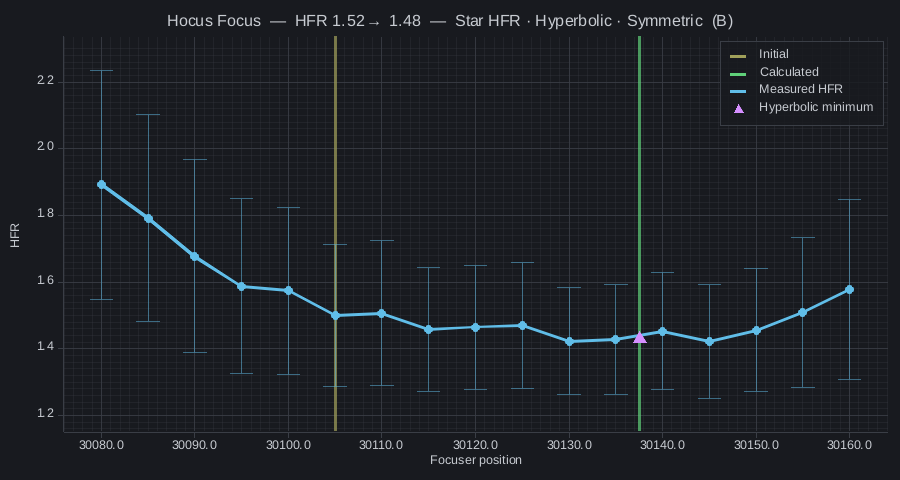
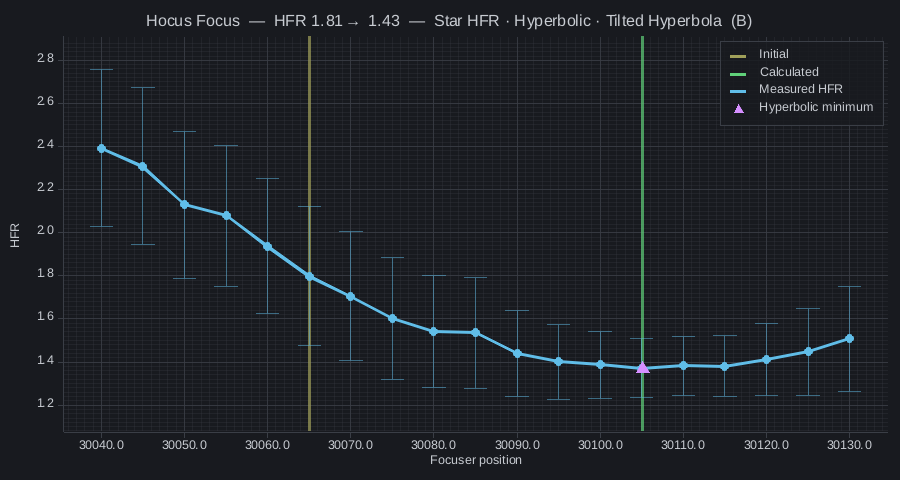
Use updated Tilted Hyperbola autofocus examples

diff --git a/index.html b/index.html
@@ -61,13 +61,13 @@
       <div class="grid two focus-examples">
         <figure>
           <a href="/assets/hocus-focus-graph.png">
-            <img src="/assets/hocus-focus-graph.png" width="900" height="480" loading="lazy" alt="Hocus Focus autofocus graph: measured HFR against focuser position, with error bars and initial and calculated focus positions. HFR changed from 1.52 to 1.48.">
+            <img src="/assets/hocus-focus-graph.png" width="900" height="480" loading="lazy" alt="Hocus Focus autofocus graph in Tilted Hyperbola mode: measured HFR against focuser position, with error bars and initial and calculated focus positions. HFR changed from 1.81 to 1.43.">
           </a>
           <figcaption>A real Hocus Focus run, plotted by Chatstronomy. <a href="/assets/hocus-focus-graph.png">View full-size graph</a></figcaption>
         </figure>
         <figure>
           <a href="/assets/discord-autofocus-results.png">
-            <img src="/assets/discord-autofocus-results.png" width="954" height="746" loading="lazy" alt="Chatstronomy's Autofocus Completed message in Discord, with Hocus Focus mode, duration, temperature, focus position, before-and-after HFR, and fit and star-detection metrics.">
+            <img src="/assets/discord-autofocus-results.png" width="996" height="722" loading="lazy" alt="Chatstronomy's Autofocus Completed message in Discord, with Hocus Focus Tilted Hyperbola mode, duration, temperature, focus position, before-and-after HFR, and fit and star-detection metrics.">
           </a>
           <figcaption>The results in Discord, including Hocus Focus diagnostics. <a href="/assets/discord-autofocus-results.png">View full-size results</a></figcaption>
         </figure>
